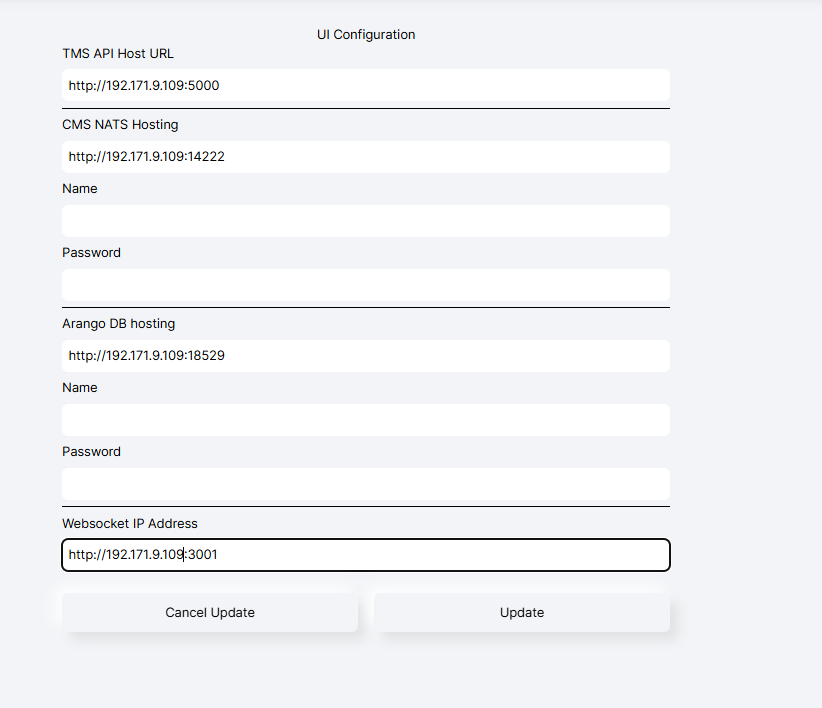
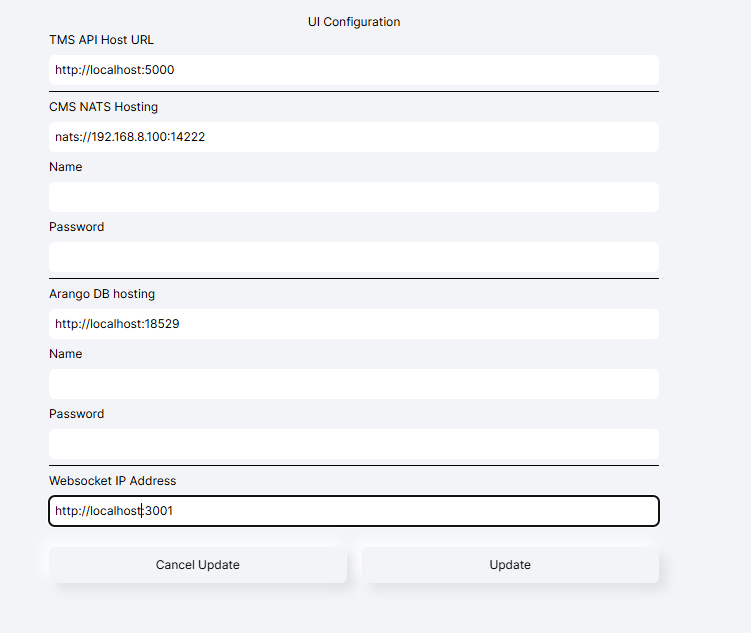
Merge pull request #164 from tazama-lf/20241210-docs-update
docs: demo guide ip address change

Pull request: docs: demo guide ip address change
# SPDX-License-Identifier: Apache-2.0

## What did we change?

update to demo UI config images (for nats)

## Why are we doing this?

## How was it tested?
- [ ] Locally
- [ ] Development Environment
- [ ] Not needed, changes very basic
- [ ] Husky successfully run
- [ ] Unit tests passing and Documentation done

diff --git a/Guides/demo-ui-guide.md b/Guides/demo-ui-guide.md
@@ -379,10 +379,21 @@ newman run collection-file -e environment-file --timeout-request 10200 --delay-r
 
 ![great-success](../images/full-stack-docker-tazama-great-success.png)
 
-
 ## Configure the demo UI setup
 
-Change the default UI configuration settings from 'localhost' to your ip address.  You can confirm your ip address by using the command `ipconfig` from the command line.
+The Demo UI can be accessed via browser via localhost
+
+```
+localhost:3001
+```
+
+Change the URL and default UI configuration settings from 'localhost' to your ip address.  You can confirm your ip address by using the command `ipconfig` from the command line.
+
+![ip:3001](../images/demo-ipaddress.png)
+
+Click on the `settings` icon to update the UI configuration variables 
+![demo-settings-icon](../images/demo-settings-icon.png)
+
 
 ![localhost](../images/demo-config-localhost.png)
 